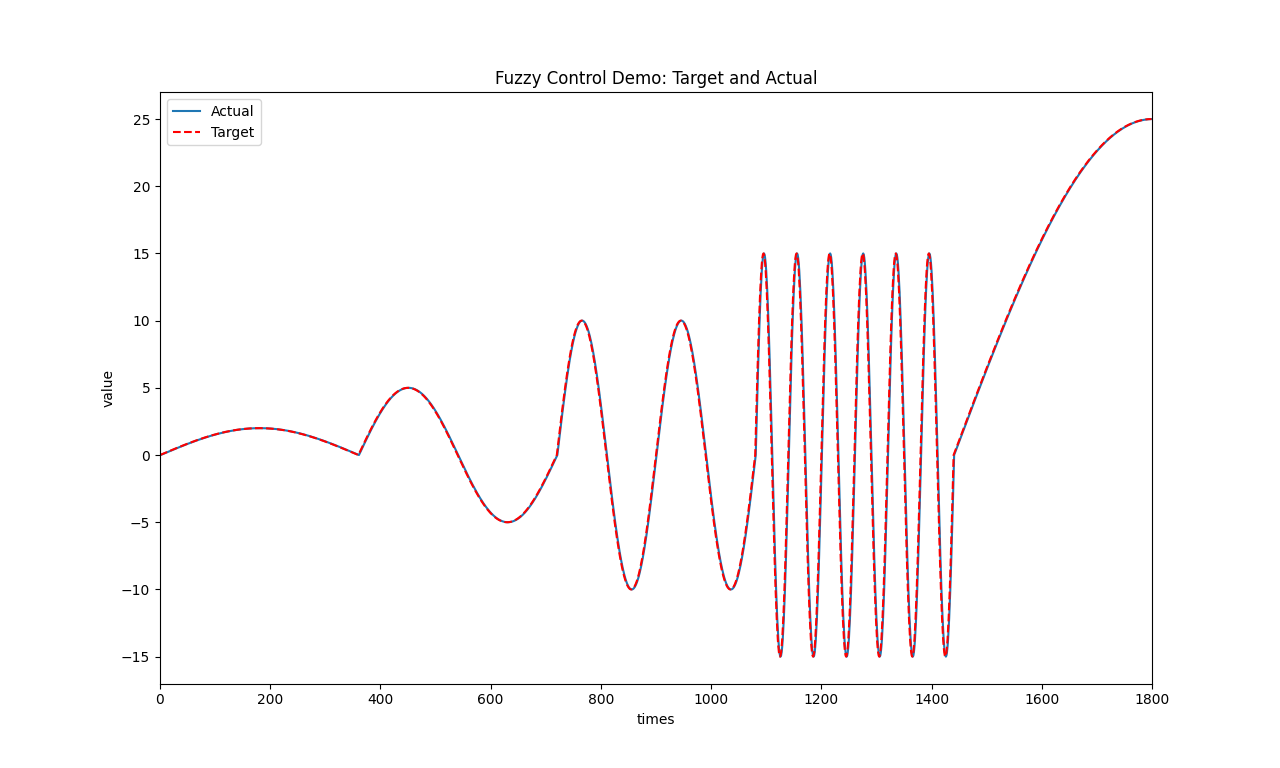
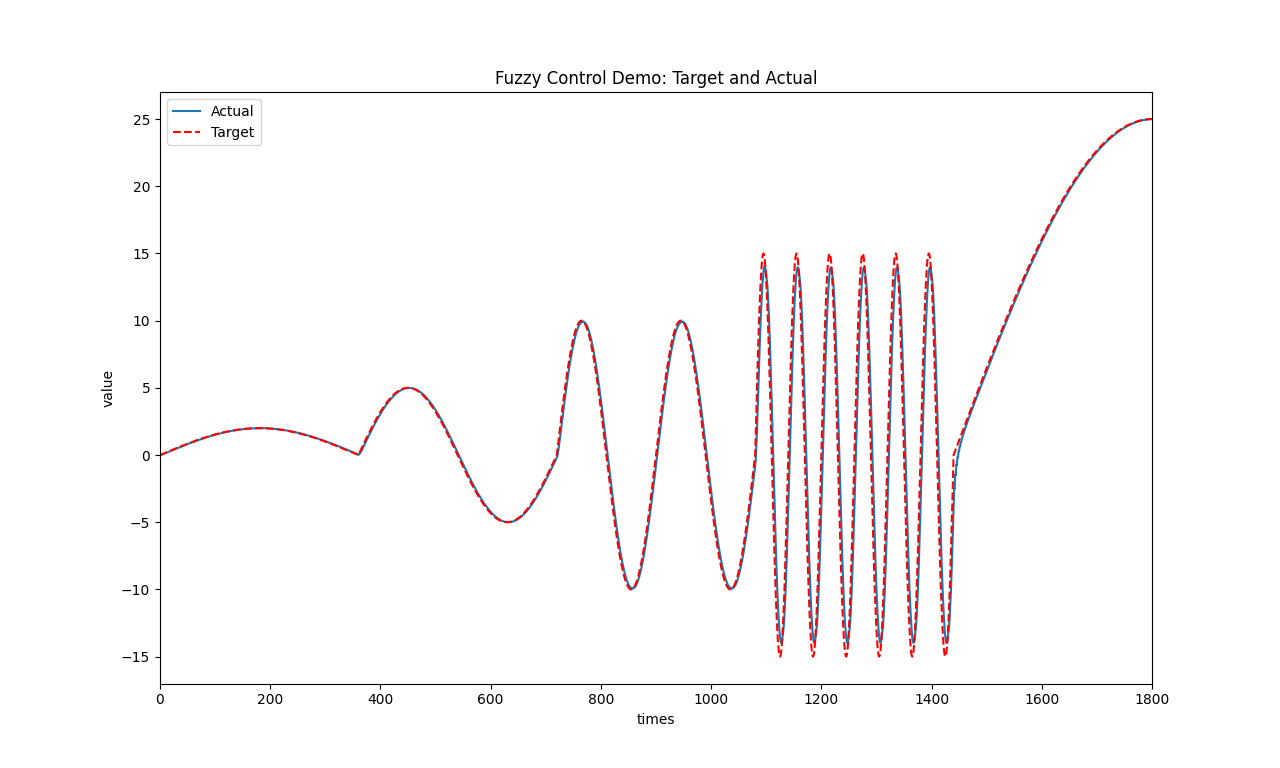
feat: update cmake system checker and update demo

Changed region(s): [[0.5938, 0.3438, 0.75, 0.8438]]

diff --git a/src/fuzzy_logic.cc b/src/fuzzy_logic.cc
@@ -122,9 +122,9 @@ void FuzzyLogic::rangeCheck(scalar& input, Membership* ptr) {
 }
 
 bool FuzzyLogic::controllerSwitchCheck(void) {
-    if (control_.err > e->membership_->getMaximum() * ratio_ || control_.err < e->membership_->getMinimum() * ratio_) {
+    if (control_.err > e->membership_->getMaximum() * switch_ratio_ || control_.err < e->membership_->getMinimum() * switch_ratio_) {
         return true;
-    } else if (control_.d_err > ec->membership_->getMaximum() * ratio_ || control_.d_err < ec->membership_->getMinimum() * ratio_) {
+    } else if (control_.d_err > ec->membership_->getMaximum() * switch_ratio_ || control_.d_err < ec->membership_->getMinimum() * switch_ratio_) {
         return true;
     }
 

diff --git a/include/fuzzy/fuzzy_logic.h b/include/fuzzy/fuzzy_logic.h
@@ -89,7 +89,7 @@ class FuzzyLogic {
 
         scalar algo(const Control_t input, bool use_p_ctrl = false, const scalar output_exp_scale = 0.0);
         void setFuzzyRules(const Matrix &rule_table);
-        void setSwitchRatio(double ratio) { ratio_ = ratio; }
+        void setSwitchRatio(double switch_ratio) { switch_ratio_ = switch_ratio; }
         void getInfo(void);
 
 #if FC_USE_MATPLOTLIB
@@ -118,7 +118,7 @@ class FuzzyLogic {
         std::unordered_map<int, scalar>inference_map_;
 
         Err_t control_;
-        double ratio_;
+        double switch_ratio_{0};
 };
 
 }

diff --git a/src/demo.cc b/src/demo.cc
@@ -77,7 +77,7 @@ int main (int argc,char *argv[]) {
 
     // DON'T CHANGE FACTOR RATIO OUT OF RANGE!
     fuzzy.u->setFactor(2.5, true);
-
+    fuzzy.setSwitchRatio(0.5);
     fuzzy.getInfo();
 
 #define CONTROL_TEST_CONSTANT_TARGET    (0)
